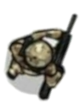
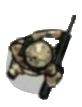
Quito clases innecesarias, modifico las imágenes del jugador para agregar vacíos entre los brazos y... Quito el switch :'(

diff --git a/ProyectoTdP/src/PaqueteJuego/GUI.java b/ProyectoTdP/src/PaqueteJuego/GUI.java
@@ -68,13 +68,13 @@ public class GUI {
 		lvl.setForeground(new Color(255,255,255));
 		lvl.setFont(new Font("Sitka Text", Font.BOLD, 18));
 		lvl.setBackground(new Color(255,255,255));
-		lvl.setBounds((int) (frame.getWidth() * 0.89), (int) (frame.getHeight() * 0.02), 100, 23);
+		lvl.setBounds((int) (frame.getWidth() * 0.83), (int) (frame.getHeight() * 0.02), 100, 23);
 		
 		puntuacion = new JLabel();
 		puntuacion.setForeground(new Color(255,255,255));
 		puntuacion.setFont(new Font("Sitka Text", Font.BOLD, 18));
 		puntuacion.setBackground(new Color(255,255,255));
-		puntuacion.setBounds((int) (frame.getWidth() * 0.01) + 20, (int) (frame.getHeight() * 0.02), (int) (frame.getWidth() * 0.3), 23);
+		puntuacion.setBounds((int) (frame.getWidth() * 0.08) + 20, (int) (frame.getHeight() * 0.02), (int) (frame.getWidth() * 0.3), 23);
 		
 		instruccion = new JLabel();
 		instruccion.setForeground(new Color(225,0,0));
@@ -139,33 +139,20 @@ public class GUI {
 			instruccion.setText("");
 			
 			botonera = new KeyAdapter() {
-				@Override
 				public void keyPressed(KeyEvent arg0) {
 					int direction = arg0.getKeyCode();
 					
 					jugador.getGrafico().setSize(75, 90);
 					
-					switch (direction) {
-						case KeyEvent.VK_LEFT : //Izquierda
-							jugador.getGrafico().setIcon(new ImageIcon("./bin/ImageIcons/Jugador - Izquierda.png"));
-							if (jugador.getPos().x - 5 > 0)
-								jugador.getPos().x -= jugador.getVel();
-							break;
-						case KeyEvent.VK_RIGHT : //Derecha
-							jugador.getGrafico().setIcon(new ImageIcon("./bin/ImageIcons/Jugador - Derecha.png"));
-							if (jugador.getPos().x < frame.getWidth()*0.9)
-								jugador.getPos().x += jugador.getVel();
-							break;
-						case KeyEvent.VK_A : //Izquierda
-							jugador.getGrafico().setIcon(new ImageIcon("./bin/ImageIcons/Jugador - Izquierda.png"));
-							if (jugador.getPos().x - 5 > 0)
-								jugador.getPos().x -= jugador.getVel();
-							break;
-						case KeyEvent.VK_D : //Derecha
-							jugador.getGrafico().setIcon(new ImageIcon("./bin/ImageIcons/Jugador - Derecha.png"));
-							if (jugador.getPos().x < frame.getWidth()*0.9)
-								jugador.getPos().x += jugador.getVel();
-							break;
+					if (direction == KeyEvent.VK_LEFT || direction == KeyEvent.VK_A) {
+						jugador.getGrafico().setIcon(new ImageIcon("./bin/ImageIcons/Jugador - Izquierda.png"));
+						if (jugador.getPos().x - 5 > 0)
+							jugador.getPos().x -= jugador.getVel();
+					}
+					if (direction == KeyEvent.VK_RIGHT || direction == KeyEvent.VK_D) {
+						jugador.getGrafico().setIcon(new ImageIcon("./bin/ImageIcons/Jugador - Derecha.png"));
+						if (jugador.getPos().x < frame.getWidth()*0.9)
+							jugador.getPos().x += jugador.getVel();
 					}
 					
 					jugador.getGrafico().setLocation(jugador.getPos());

diff --git a/ProyectoTdP/src/PaqueteObjetos/InteligenciaArma.java b/ProyectoTdP/src/PaqueteObjetos/InteligenciaArma.java
@@ -1,5 +1,5 @@
 package PaqueteObjetos;
 
-public class InteligenciaArma extends Inteligencia{
+public class InteligenciaArma extends Inteligencia {
 	public InteligenciaArma() {};
 }
